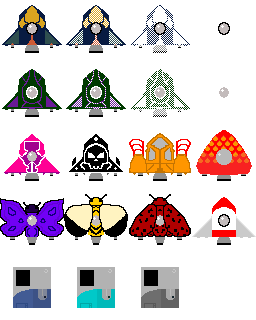
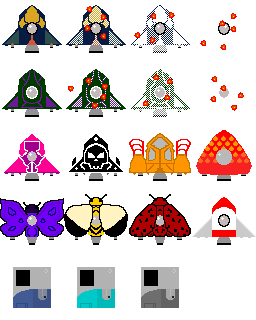
adicionada animação de morte. o botão de tiro agora mata a nave

diff --git a/modulos/personagens/Player.py b/modulos/personagens/Player.py
@@ -12,15 +12,23 @@ class Player(Nave):
     self.skin = skin
     self.alternar_skin = 0
     self.img_anim = []
-    if self.skin<7:
+    if self.skin<8:
       for i in range(20):
         self.img_anim.append(pygame.image.load("imagens/jogadores/naves.png").subsurface((i%10*64,(self.skin+i//10)*64),(64,64)).convert_alpha())
     else:
       for i in range(10):
         self.img_anim.append(pygame.image.load("imagens/jogadores/naves.png").subsurface((i%10*64,self.skin*64),(64,64)).convert_alpha())
-    #for i in range(4):
-     # self.img_anim.append(pygame.image.load("imagens/jogadores/naves.png").subsurface((i%10*64,(self.skin+i//10)*64),(64,64)).convert_alpha())
+    self.index_morte = 0
+    self.img_anim_morte = []
+    if self.skin<8:
+      for i in range(4):
+        print(i*64,(self.skin//2)*64)
+        self.img_anim_morte.append(pygame.image.load("imagens/morte/morte_naves.png").subsurface((i*64,(self.skin//2)*64),(64,64)).convert_alpha())
+    else:
+      for i in range(4):
+        self.img_anim_morte.append(pygame.image.load("imagens/morte/morte_naves.png").subsurface((i*64,self.skin*64),(64,64)).convert_alpha())
     #deinfindo o sprite inicial
+    print(self.img_anim_morte)
     super().__init__(VIDA_PLAYER,(250,250),self.img_anim[0])
     #grupo de sprites tiro
     self.tiros = pygame.sprite.Group()
@@ -35,73 +43,77 @@ class Player(Nave):
 
   def atacar(self)->None:
     #analisa a mutição ativa, cria objetos do tiro e adiciona ao grupo
-    if self.skin < 8:
-      self.alternar_skin = 10
-    if self.tipo_mun[0]:
-      self.tiros.add(Arsenal((self.rect.centerx, self.rect.top-screen.get_height()//30), pygame.image.load("imagens/armamento/munições.png").subsurface((0,0),(24,24)).convert_alpha(), 5))
-    elif self.tipo_mun[1]:
-      if len(self.tiros.sprites())<9:
-        for i in range(3):
-          self.tiros.add(Arsenal((self.rect.centerx+screen.get_height()//60*(1-i), self.rect.top-screen.get_height()//30), pygame.image.load("imagens/armamento/munições.png").subsurface((24,0),(24,24)).convert_alpha(), 5, -30+30*i ))
-    elif self.tipo_mun[2]:
-      self.tiros.add(Arsenal((self.rect.centerx, self.rect.top-screen.get_height()//30), pygame.image.load("imagens/armamento/munições.png").subsurface((48,0),(24,24)).convert_alpha(), 5, random.randint(-30,30) ))
-    elif self.tipo_mun[3]:
-      if len(self.tiros.sprites())<12:
-        for i in range(2):
-          self.tiros.add(Arsenal((self.rect.centerx+screen.get_height()//30*(1-i*2), self.rect.top-screen.get_height()//30), pygame.image.load("imagens/armamento/munições.png").subsurface((24,0),(24,24)).convert_alpha(), 5))
+    if self.vida>0:
+      if self.skin < 8:
+        self.alternar_skin = 10
+      if self.tipo_mun[0]:
+        self.tiros.add(Arsenal((self.rect.centerx, self.rect.top-screen.get_height()//30), pygame.image.load("imagens/armamento/munições.png").subsurface((0,0),(24,24)).convert_alpha(), 5))
+      elif self.tipo_mun[1]:
+        if len(self.tiros.sprites())<9:
+          for i in range(3):
+            self.tiros.add(Arsenal((self.rect.centerx+screen.get_height()//60*(1-i), self.rect.top-screen.get_height()//30), pygame.image.load("imagens/armamento/munições.png").subsurface((24,0),(24,24)).convert_alpha(), 5, -30+30*i ))
+      elif self.tipo_mun[2]:
+        self.tiros.add(Arsenal((self.rect.centerx, self.rect.top-screen.get_height()//30), pygame.image.load("imagens/armamento/munições.png").subsurface((48,0),(24,24)).convert_alpha(), 5, random.randint(-30,30) ))
+      elif self.tipo_mun[3]:
+        if len(self.tiros.sprites())<12:
+          for i in range(2):
+            self.tiros.add(Arsenal((self.rect.centerx+screen.get_height()//30*(1-i*2), self.rect.top-screen.get_height()//30), pygame.image.load("imagens/armamento/munições.png").subsurface((24,0),(24,24)).convert_alpha(), 5))
 
 
   def mover(self,velocidade:int)->None:
-    #nova proporção do sprite
-    proporção=(screen.get_height()//7,screen.get_height()//7)
+    if self.vida>0:
 
-    #ajusta a animação dependendo do movimento
-    if velocidade[0] < 0 and velocidade[1] < 0:
-      self.image = pygame.transform.scale(self.img_anim[self.alternar_skin+9], proporção)
-    if velocidade[0] > 0 and velocidade[1] < 0:
-      self.image =  pygame.transform.scale(self.img_anim[self.alternar_skin+8], proporção)
-    if velocidade[0] == 0 and velocidade[1] < 0:
-      self.image =  pygame.transform.scale(self.img_anim[self.alternar_skin+7], proporção)
-    if velocidade[0] < 0 and velocidade[1] == 0:
-      self.image =  pygame.transform.scale(self.img_anim[self.alternar_skin+6], proporção)
-    if velocidade[0] > 0 and velocidade[1] == 0:
-      self.image =  pygame.transform.scale(self.img_anim[self.alternar_skin+5], proporção)
-    if velocidade[0] == 0 and velocidade[1] == 0:
-      self.image =  pygame.transform.scale(self.img_anim[self.alternar_skin+4], proporção)
-    if velocidade[0] < 0 and velocidade[1] > 0:
-      self.image =  pygame.transform.scale(self.img_anim[self.alternar_skin+3], proporção)
-    if velocidade[0] > 0 and velocidade[1] > 0:
-      self.image =  pygame.transform.scale(self.img_anim[self.alternar_skin+2], proporção)
-    if velocidade[0] == 0 and velocidade[1] > 0:
-      self.image =  pygame.transform.scale(self.img_anim[self.alternar_skin+1], proporção)
+      proporção=(screen.get_height()//7,screen.get_height()//7)
 
-    #ajusta hitbox
-    self.rect.w=self.image.get_width()
-    self.rect.h=self.image.get_height()
+      #ajusta a animação dependendo do movimento
+      if velocidade[0] < 0 and velocidade[1] < 0:
+        self.image = pygame.transform.scale(self.img_anim[self.alternar_skin+9], proporção)
+      if velocidade[0] > 0 and velocidade[1] < 0:
+        self.image =  pygame.transform.scale(self.img_anim[self.alternar_skin+8], proporção)
+      if velocidade[0] == 0 and velocidade[1] < 0:
+        self.image =  pygame.transform.scale(self.img_anim[self.alternar_skin+7], proporção)
+      if velocidade[0] < 0 and velocidade[1] == 0:
+        self.image =  pygame.transform.scale(self.img_anim[self.alternar_skin+6], proporção)
+      if velocidade[0] > 0 and velocidade[1] == 0:
+        self.image =  pygame.transform.scale(self.img_anim[self.alternar_skin+5], proporção)
+      if velocidade[0] == 0 and velocidade[1] == 0:
+        self.image =  pygame.transform.scale(self.img_anim[self.alternar_skin+4], proporção)
+      if velocidade[0] < 0 and velocidade[1] > 0:
+        self.image =  pygame.transform.scale(self.img_anim[self.alternar_skin+3], proporção)
+      if velocidade[0] > 0 and velocidade[1] > 0:
+        self.image =  pygame.transform.scale(self.img_anim[self.alternar_skin+2], proporção)
+      if velocidade[0] == 0 and velocidade[1] > 0:
+        self.image =  pygame.transform.scale(self.img_anim[self.alternar_skin+1], proporção)
 
-    #verifica se o jogador não ultrapassou os limites da tela
-    if self.rect.top<0 and velocidade[1]<0 and self.rect.left<0 and velocidade[0]<0:
-      self.rect.move_ip((0, 0))
-    elif self.rect.bottom>screen.get_height() and velocidade[1]>0 and self.rect.left<0 and velocidade[0]<0:
-      self.rect.move_ip((0, 0))
-    elif self.rect.top<0 and velocidade[1]<0 and self.rect.right>screen.get_width()-2 and velocidade[0]>0:
-      self.rect.move_ip((0, 0))
-    elif self.rect.bottom>screen.get_height() and velocidade[1]>0 and self.rect.right>screen.get_width()-5  and velocidade[0]>0:
-      self.rect.move_ip((0, 0))
-    elif self.rect.left<0 and velocidade[0]<0:
-      self.rect.move_ip((0,velocidade[1]))
-    elif self.rect.right>screen.get_width()-5 and velocidade[0]>0:
-      self.rect.move_ip((0,velocidade[1]))
-    elif self.rect.top<0 and velocidade[1]<0:
-      self.rect.move_ip((velocidade[0], 0))
-    elif self.rect.bottom>screen.get_height() and velocidade[1]>0:
-      self.rect.move_ip((velocidade[0], 0))
-    else:
-      self.rect.move_ip(velocidade)
+      #ajusta hitbox
+      self.rect.w=self.image.get_width()
+      self.rect.h=self.image.get_height()
+
+      #verifica se o jogador não ultrapassou os limites da tela
+      if self.rect.top<0 and velocidade[1]<0 and self.rect.left<0 and velocidade[0]<0:
+        self.rect.move_ip((0, 0))
+      elif self.rect.bottom>screen.get_height() and velocidade[1]>0 and self.rect.left<0 and velocidade[0]<0:
+        self.rect.move_ip((0, 0))
+      elif self.rect.top<0 and velocidade[1]<0 and self.rect.right>screen.get_width()-2 and velocidade[0]>0:
+        self.rect.move_ip((0, 0))
+      elif self.rect.bottom>screen.get_height() and velocidade[1]>0 and self.rect.right>screen.get_width()-5  and velocidade[0]>0:
+        self.rect.move_ip((0, 0))
+      elif self.rect.left<0 and velocidade[0]<0:
+        self.rect.move_ip((0,velocidade[1]))
+      elif self.rect.right>screen.get_width()-5 and velocidade[0]>0:
+        self.rect.move_ip((0,velocidade[1]))
+      elif self.rect.top<0 and velocidade[1]<0:
+        self.rect.move_ip((velocidade[0], 0))
+      elif self.rect.bottom>screen.get_height() and velocidade[1]>0:
+        self.rect.move_ip((velocidade[0], 0))
+      else:
+        self.rect.move_ip(velocidade)
 
     
     
   def update(self,aliens:pygame.sprite.Group)->None:
+    proporção=(screen.get_height()//7,screen.get_height()//7)
+
     #mostra na tela a vida do jogador
     self.boxVida.update(self.boxVida.left,25,self.vida*2, 20)
     pygame.draw.rect(screen,(255,0,0),self.boxVida)
@@ -113,7 +125,7 @@ class Player(Nave):
           self.tipo_mun[i] = True
 
     #recupera a vida ate 40% mais ou menos, uma mamata
-    if pygame.time.get_ticks()%30 == 0 and self.vida<40:
+    if pygame.time.get_ticks()%30 == 0 and self.vida<40 and self.vida>0:
       self.vida += 3
 
     #desenha os tiros na tela e verifica se acertou um alien
@@ -127,8 +139,11 @@ class Player(Nave):
     screen.blit(format_text,(self.boxVida.left,60))
 
     self.alternar_skin = 0
-
     #verifica se morreu e não tem o qque fazer quando morre, se pa voltar pro menu inicial
     if self.vida <= 0:
-      self.kill()
+      self.index_morte+=0.3
+      self.image=pygame.transform.scale(self.img_anim_morte[int(self.index_morte)], proporção)
+      print(int(self.index_morte), self.index_morte)
+      if self.index_morte>3.3:
+        self.kill()
     

diff --git a/modulos/janelas/Janelas.py b/modulos/janelas/Janelas.py
@@ -6,8 +6,8 @@ from modulos.personagens.Player import Player
 import math
 
 #criação do sprite do jogador e inimigos
-player = Player(screen.get_width()-150, 14)
-player2 = Player(25, 8)
+player = Player(screen.get_width()-150, 0)
+player2 = Player(25, 2)
 players = pygame.sprite.Group()
 players.add(player)
 players.add(player2)
@@ -49,8 +49,8 @@ class Janelas:
                 #gera os aliens
                 if len(aliens) < random.randint(2,3) and pygame.time.get_ticks()%50 > 45:
                     aliens.add(Alien((random.randint(50,800),-30), random.randint(0,1)))
-                
-                screen.blit(pygame.transform.scale(BACKGROUND, (screen.get_width(),screen.get_height())),(0,0))
+                screen.fill(CORES["Azul Escuro"])
+                #screen.blit(pygame.transform.scale(BACKGROUND, (screen.get_width(),screen.get_height())),(0,0))
                 players.draw(screen)
                 players.update(aliens)
                 aliens.draw(screen)

diff --git a/game.py b/game.py
@@ -27,7 +27,7 @@ while running:
   key = pygame.key.get_pressed()
 
   if key[pygame.K_1]:   # atacar
-    player2.atacar()
+    player2.vida=0
   
   if key[pygame.K_d] and key[pygame.K_w]:  # Andar para direita e pra cima
     player2.mover((velocidade,-velocidade))
@@ -53,7 +53,7 @@ while running:
     players.add(player2)
 
   if key[pygame.K_l]:   # atacar
-    player.atacar()
+    player.vida=0
 
   if key[pygame.K_RIGHT] and key[pygame.K_UP]:  # Andar para direita e pra cima
     player.mover((velocidade,-velocidade))
@@ -91,7 +91,6 @@ while running:
         player2.index_mun += 1
       if event.key == pygame.K_SPACE:
         ESCOLHE_JANELA += 1
-  print(relogio.get_fps())
   janela.mudar_janela(ESCOLHE_JANELA,(0,0))
   pygame.display.flip()
 
